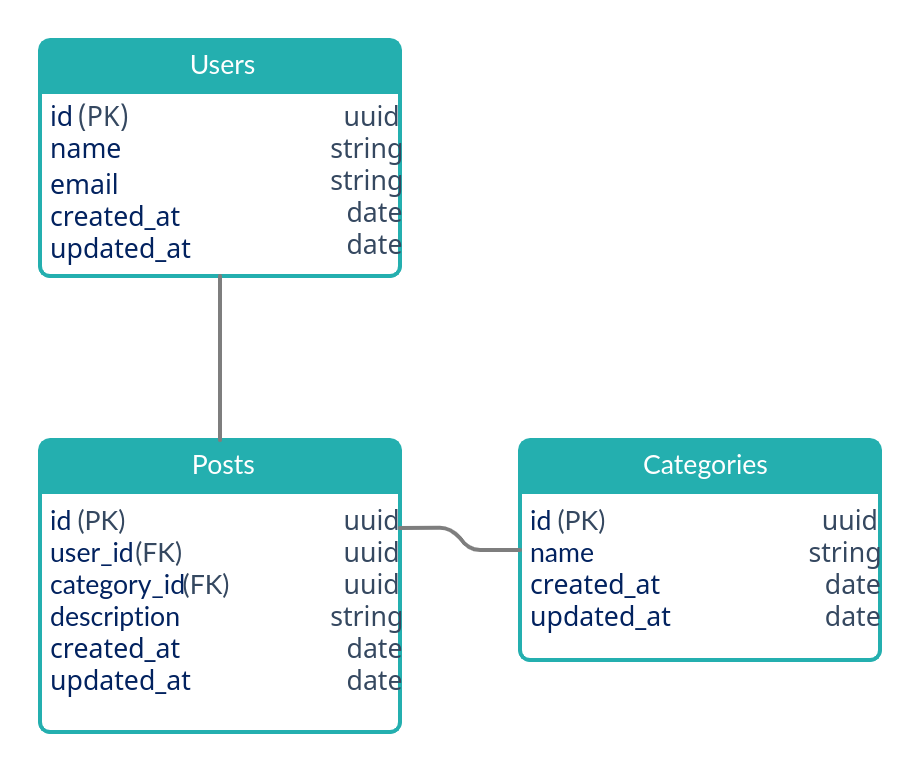
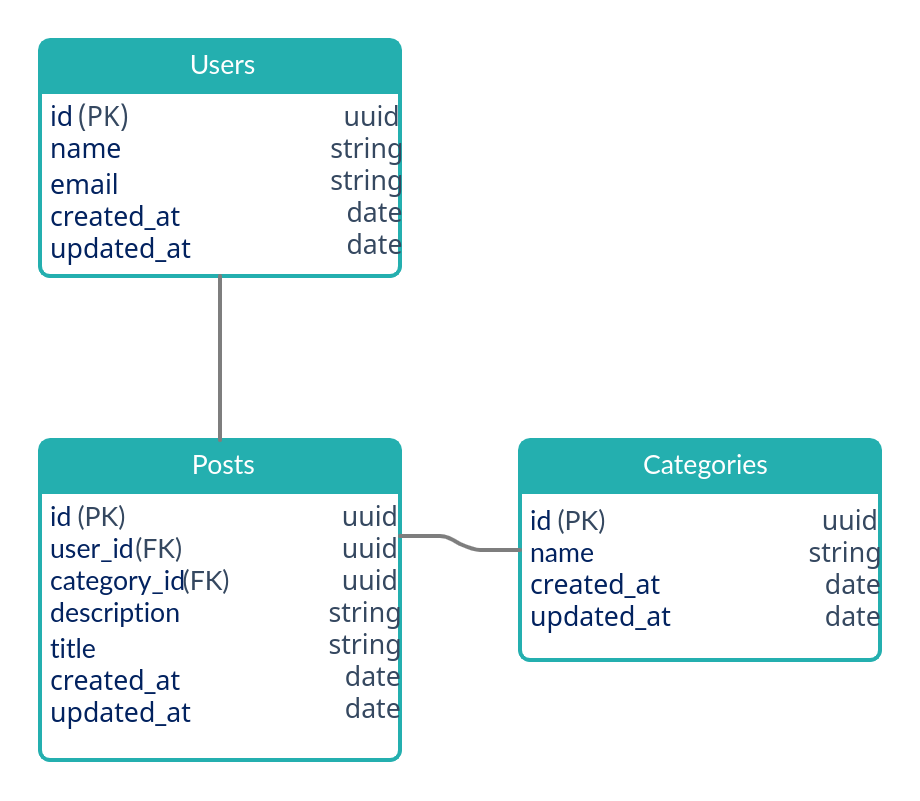
feat(post): use case to create a new post

Changed region(s): [[0.0304, 0.5285, 0.9739, 0.9016], [0.0304, 0.0622, 0.4565, 0.3731]]

diff --git a/src/modules/posts/useCases/createPost/CreatePostUseCase.spec.ts b/src/modules/posts/useCases/createPost/CreatePostUseCase.spec.ts
@@ -1,0 +1,48 @@
+import { UsersRepositoryInMemory } from "@modules/accounts/repositories/in-memory/UsersRepositoryInMemory";
+import { CategoriesRepositoryInMemory } from "@modules/posts/repositories/in-memory/CategoriesRepositoryInMemory";
+import { PostsRepositoryInMemory } from "@modules/posts/repositories/in-memory/PotsRepositoryInMemory";
+
+import { CreatePostUseCase } from "./CreatePostUseCase";
+
+let postsRepositoryInMemory: PostsRepositoryInMemory;
+let categoriesRepositoryInMemory: CategoriesRepositoryInMemory;
+let usersRepositoryInMemory: UsersRepositoryInMemory;
+let createPostUseCase: CreatePostUseCase;
+
+describe("Create Post", () => {
+  beforeEach(() => {
+    categoriesRepositoryInMemory = new CategoriesRepositoryInMemory();
+    usersRepositoryInMemory = new UsersRepositoryInMemory();
+
+    postsRepositoryInMemory = new PostsRepositoryInMemory();
+    createPostUseCase = new CreatePostUseCase(postsRepositoryInMemory);
+  });
+
+  it("should be able to create a new post", async () => {
+    const category = {
+      name: "Category Test",
+    };
+
+    const user = {
+      name: "John Doe",
+      email: "johndoe@example.com",
+    };
+
+    await categoriesRepositoryInMemory.create(category);
+
+    const categoryCreated = await categoriesRepositoryInMemory.findByName(
+      category.name
+    );
+
+    const userCreated = await usersRepositoryInMemory.create(user);
+
+    const postCreated = await createPostUseCase.execute({
+      user_id: userCreated.id,
+      category_id: categoryCreated.id,
+      description: "description",
+      title: "title",
+    });
+
+    expect(postCreated).toHaveProperty("id");
+  });
+});

diff --git a/src/modules/posts/useCases/createPost/CreatePostUseCase.ts b/src/modules/posts/useCases/createPost/CreatePostUseCase.ts
@@ -1,0 +1,35 @@
+import { inject, injectable } from "tsyringe";
+
+import { Post } from "@modules/posts/infra/typeorm/entities/Post";
+import { IPostsRepository } from "@modules/posts/repositories/IPostsRepository";
+
+interface IRequest {
+  user_id: string;
+  category_id: string;
+  description: string;
+  title: string;
+}
+
+@injectable()
+class CreatePostUseCase {
+  constructor(
+    @inject("PostsRepository")
+    private postsRepository: IPostsRepository
+  ) {}
+
+  public async execute({
+    user_id,
+    category_id,
+    description,
+    title,
+  }: IRequest): Promise<Post> {
+    return this.postsRepository.create({
+      user_id,
+      category_id,
+      description,
+      title,
+    });
+  }
+}
+
+export { CreatePostUseCase };

diff --git a/src/modules/posts/infra/typeorm/entities/Post.ts b/src/modules/posts/infra/typeorm/entities/Post.ts
@@ -1,0 +1,41 @@
+import {
+  Column,
+  CreateDateColumn,
+  Entity,
+  ManyToOne,
+  PrimaryGeneratedColumn,
+  UpdateDateColumn,
+  JoinColumn,
+} from "typeorm";
+
+import { User } from "@modules/accounts/infra/typeorm/entities/User";
+
+import { Category } from "./Category";
+
+@Entity("posts")
+class Post {
+  @PrimaryGeneratedColumn("uuid")
+  id: string;
+
+  @Column()
+  description: string;
+
+  @Column()
+  title: string;
+
+  @ManyToOne(() => Category)
+  @JoinColumn({ name: "category_id" })
+  category: Category;
+
+  @ManyToOne(() => User)
+  @JoinColumn({ name: "user_id" })
+  user: User;
+
+  @CreateDateColumn()
+  created_at: Date;
+
+  @UpdateDateColumn()
+  updated_at: Date;
+}
+
+export { Post };

diff --git a/src/modules/posts/repositories/in-memory/PotsRepositoryInMemory.ts b/src/modules/posts/repositories/in-memory/PotsRepositoryInMemory.ts
@@ -1,0 +1,33 @@
+import { v4 as uuidV4 } from "uuid";
+
+import { ICreatePostDTO } from "@modules/posts/dtos/ICreatePostDTO";
+import { Post } from "@modules/posts/infra/typeorm/entities/Post";
+
+import { IPostsRepository } from "../IPostsRepository";
+
+class PostsRepositoryInMemory implements IPostsRepository {
+  private posts: Post[] = [];
+
+  async create({
+    description,
+    category_id,
+    title,
+    user_id,
+  }: ICreatePostDTO): Promise<Post> {
+    const post = new Post();
+
+    Object.assign(post, {
+      id: uuidV4(),
+      description,
+      category_id,
+      title,
+      user_id,
+    });
+
+    this.posts.push(post);
+
+    return post;
+  }
+}
+
+export { PostsRepositoryInMemory };

diff --git a/src/modules/posts/repositories/IPostsRepository.ts b/src/modules/posts/repositories/IPostsRepository.ts
@@ -1,0 +1,13 @@
+import { ICreatePostDTO } from "@modules/posts/dtos/ICreatePostDTO";
+import { Post } from "@modules/posts/infra/typeorm/entities/Post";
+
+interface IPostsRepository {
+  create({
+    description,
+    title,
+    category_id,
+    user_id,
+  }: ICreatePostDTO): Promise<Post>;
+}
+
+export { IPostsRepository };

diff --git a/src/shared/infra/typeorm/migrations/1636425599067-CreatePosts.ts b/src/shared/infra/typeorm/migrations/1636425599067-CreatePosts.ts
@@ -18,6 +18,10 @@ export class CreatePosts1636425599067 implements MigrationInterface {
             type: "varchar",
           },
           {
+            name: "title",
+            type: "varchar",
+          },
+          {
             name: "user_id",
             type: "uuid",
             isNullable: true,

diff --git a/src/modules/posts/dtos/ICreatePostDTO.ts b/src/modules/posts/dtos/ICreatePostDTO.ts
@@ -1,0 +1,6 @@
+export interface ICreatePostDTO {
+  description: string;
+  title: string;
+  category_id: string;
+  user_id: string;
+}
